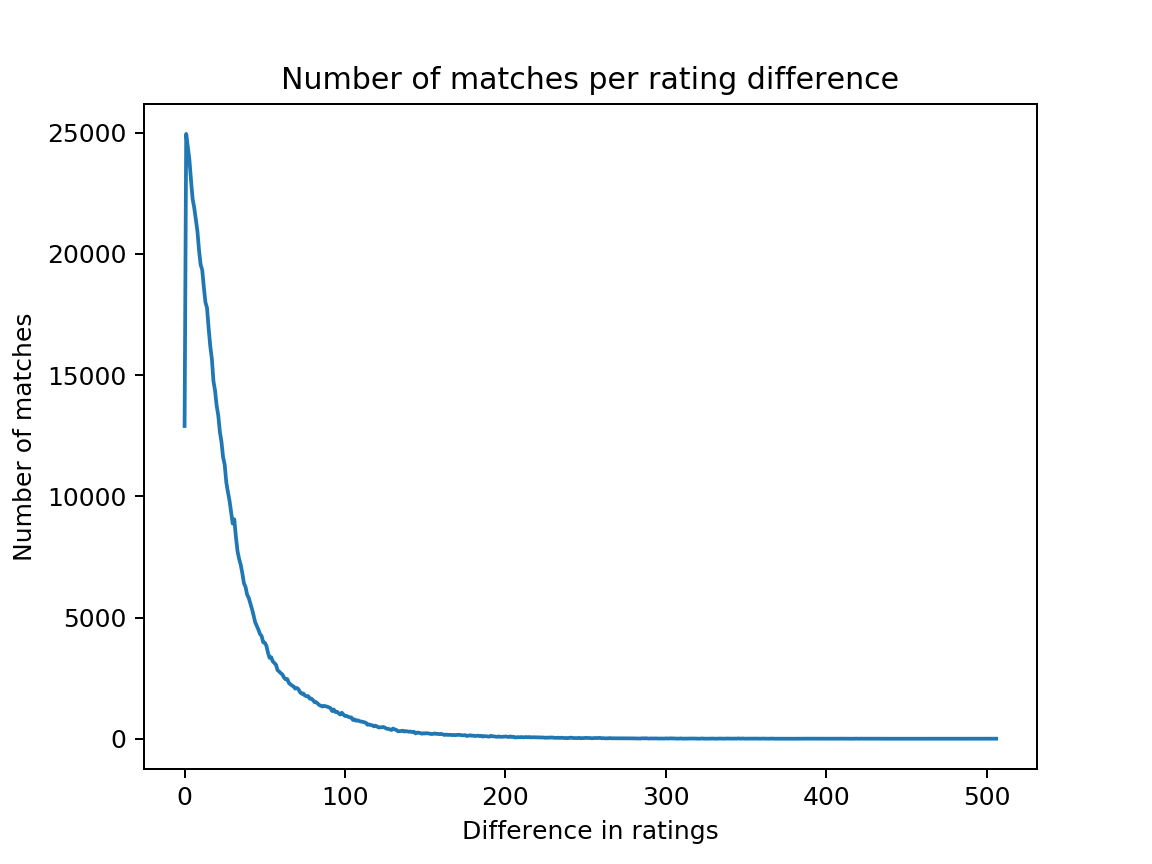
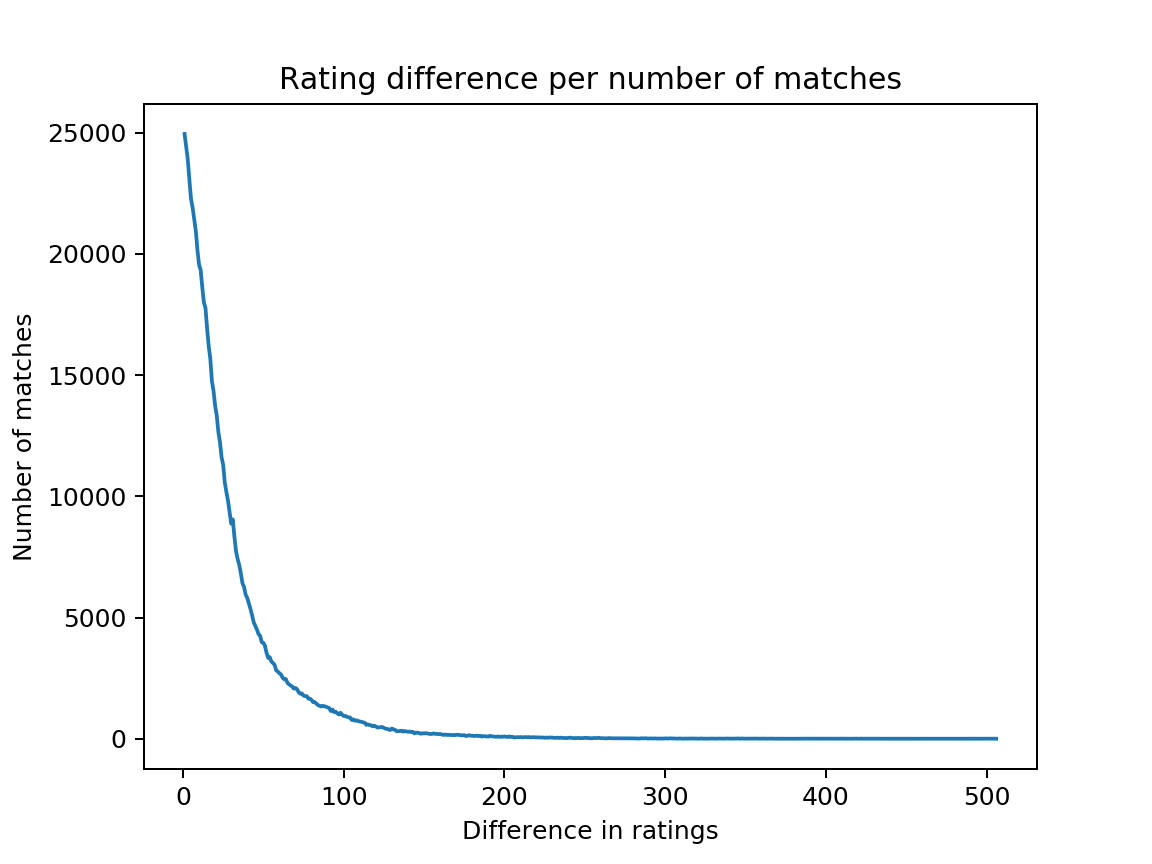
add functions for log of ratings distribution; cleanup white space

diff --git a/civs/analyze.py b/civs/analyze.py
@@ -99,7 +99,7 @@ def mean_quantiles(civs, split):
         return []
     means = [civ.mean for civ in civs]
     pct = 1.0/split
-    return [np.quantile(means, pct + pct*i) for i in range(split - 1)]    
+    return [np.quantile(means, pct + pct*i) for i in range(split - 1)]
 
 def graph_civ_by_map(data_set_type, map_type, split):
     constants = utils.lookup.constants()
@@ -134,7 +134,6 @@ def plot_dist(ax, civs, title):
     ax.errorbar(x, y, yerr=yerr, fmt='_')
     ax.set_xticklabels(x, rotation="vertical")
 
-
 class MatchExperience():
     """ What happened in a match from a single player's point of view."""
     def __init__(self, rating, civ, enemy_civ, score, won):
@@ -156,7 +155,7 @@ def civs_by_snapshots(data_set_type, map_type, snapshot_count):
         experiences_raw.append(MatchExperience(match.rating_1, match.civ_1, match.civ_2, match.score, match.winner == 1))
         experiences_raw.append(MatchExperience(match.rating_2, match.civ_2, match.civ_1, match.score, match.winner == 2))
     experiences = sorted(experiences_raw, key=lambda x: x.rating)
-    
+
     # Each match has two players, each of which will be counted somewhere
     total_records = len(experiences)
     # we want to advance a third of a snapshot for each record set, so...
@@ -213,7 +212,7 @@ def flourish(data_set_type, map_type, split):
         writer = csv.writer(f)
         writer.writerows(rows)
     print(rows)
-    
+
 def civ_by_quantiles(data_set_type, map_type, split):
     quantile_civs = []
     hold = 0
@@ -370,7 +369,6 @@ def winning_clusters(data_set_type, map_type):
 def wtvr():
     reports = MatchReport.by_map_and_rating('all', 29, 1200, 100000)
     victory_chains(reports)
-
 
 if __name__ == '__main__':
     winning_clusters('all', 9)

diff --git a/elo/graphs.py b/elo/graphs.py
@@ -2,6 +2,7 @@
 
 """ Generates graphs for use in elo/writeup.txt """
 from collections import defaultdict, Counter
+from math import log
 import pathlib
 
 import matplotlib.pyplot as plt
@@ -71,23 +72,31 @@ def pct_win_by_rating():
     ax.legend(handles, labels, loc='lower right')
     plt.savefig('{}/win_by_rating.png'.format(GRAPH_DIR), dpi=180)
 
-def ratings_distribution():
+def ratings_distributions():
     ctr = Counter()
     for report in MatchReport.all('model'):
         ctr[abs(report.score)] += 1
     xs = []
     ys = []
-    for x in sorted(ctr):
+    log_ys = []
+    for x in sorted(ctr)[1:]:
         if ctr[x] < 10:
             continue
         xs.append(x)
         ys.append(ctr[x])
-    plt.title('Number of matches per rating difference')
+        log_ys.append(log(ctr[x]))
+    plt.figure(1)
+    plt.title('Rating difference per number of matches')
     plt.xlabel('Difference in ratings')
     plt.ylabel('Number of matches')
     plt.plot(xs, ys)
     plt.savefig('{}/rating_distribution.png'.format(GRAPH_DIR), dpi=180)
-
+    plt.figure(2)
+    plt.title('Log of rating difference per number of matches')
+    plt.xlabel('Difference in ratings')
+    plt.ylabel('Log of number of matches')
+    plt.plot(xs, log_ys)
+    plt.savefig('{}/log_rating_distribution.png'.format(GRAPH_DIR), dpi=180)
 
 if __name__ == '__main__':
-    ratings_distribution()
+    ratings_distributions()

diff --git a/elo/calculations.py b/elo/calculations.py
@@ -4,6 +4,7 @@
 from collections import defaultdict, Counter
 import csv
 import json
+from math import log
 import os
 import pathlib
 import random
@@ -63,6 +64,22 @@ def correlation_and_regression(data_set_type):
     slope, intercept, r_value, _, _ = stats.linregress(x, y)
     print(data_set_type)
     print('  Intercept: {:.3f}, Slope: {:.4f}, R value: {:.3f}'.format(intercept, slope, r_value))
+
+def ratings_correlation_and_regression(data_set_type):
+    ctr = Counter()
+    for report in MatchReport.all('model'):
+        ctr[abs(report.score)] += 1
+    xs = []
+    log_ys = []
+    for x in sorted(ctr)[1:]:
+        if ctr[x] < 10:
+            continue
+        xs.append(x)
+        log_ys.append(log(ctr[x]))
+    slope, intercept, r_value, _, _ = stats.linregress(xs, log_ys)
+    print(data_set_type)
+    print('  Intercept: {:.3f}, Slope: {:.4f}, R value: {:.3f}'.format(intercept, slope, r_value))
+
 if __name__ == '__main__':
     for data_set_type in ('model', 'verification',):
-        correlation_and_regression(data_set_type)
+        ratings_correlation_and_regression(data_set_type)

diff --git a/elo/analyze.py b/elo/analyze.py
@@ -163,7 +163,6 @@ def old_determine(profile_id, row):
     elif possible_win_states == lost_state:
         print('{} lost'.format(profile_id))
 
-
 def ratings_hist():
     ctr = Counter()
     for report in MatchReport.all('all'):
@@ -261,8 +260,6 @@ def likelihood_of_win():
     pct_win = wins/float(total)
     print(pct_win, total, pct_win - cl)
 
-
-
 def nearest_20(num):
     for i in range(20):
         if not (num - i) % 20:
@@ -347,7 +344,7 @@ def rating_diff_by_rating_bucket():
         ax = axs[idx]
         plot_dist(ax, ctr, '{} - {}'.format(hold, edge - 1))
         hold = edge
-    
+
     ctr = edge_counters['big']
     ax = axs[-1]
     plot_dist(ax, ctr, '{}+'.format(hold))
@@ -364,6 +361,6 @@ def plot_dist(ax, ctr, title):
         xs.append(x)
         ys.append(ctr[x])
     ax.plot(xs, ys)
-    
+
 if __name__ == '__main__':
     rating_diff_by_rating_bucket()

diff --git a/elo/sample.py b/elo/sample.py
@@ -18,7 +18,7 @@ def matches():
     model_edge = int(len(matches)*.8)
     # Second 10% go to verification
     verification_edge = int(len(matches)*.9)
-    
+
     # Model
     with open('{}/data/match_model_data.csv'.format(ROOT_DIR), 'w') as f:
         writer = csv.writer(f)
@@ -42,6 +42,6 @@ def matches():
             record = match.to_record()
             if record[-1] > 0:
                 writer.writerow(record)
-    
+
 if __name__ == '__main__':
     matches()

diff --git a/utils/models.py b/utils/models.py
@@ -14,7 +14,6 @@ from utils.lookup import constants
 
 LOOKUP = constants()
 
-
 class MatchReport():
     """ Holds match information from both players' perspective (loaded from Match records). """
     data_file_template = '{}/data/match_{{}}_data.csv'.format(ROOT_DIR)
